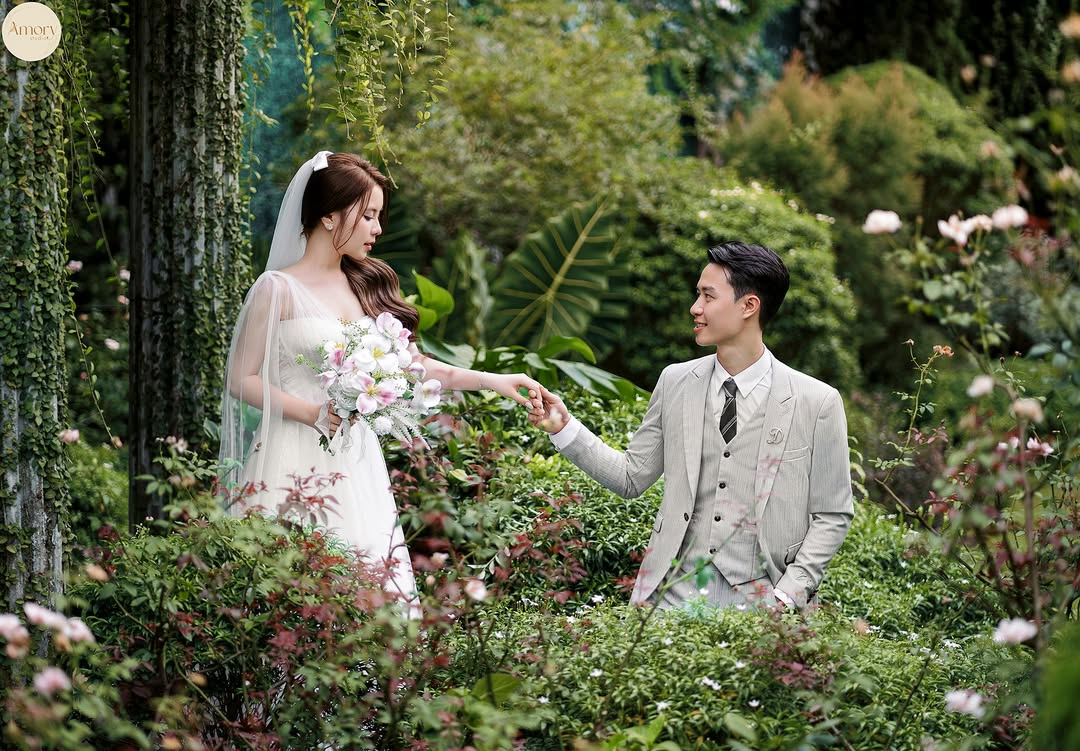
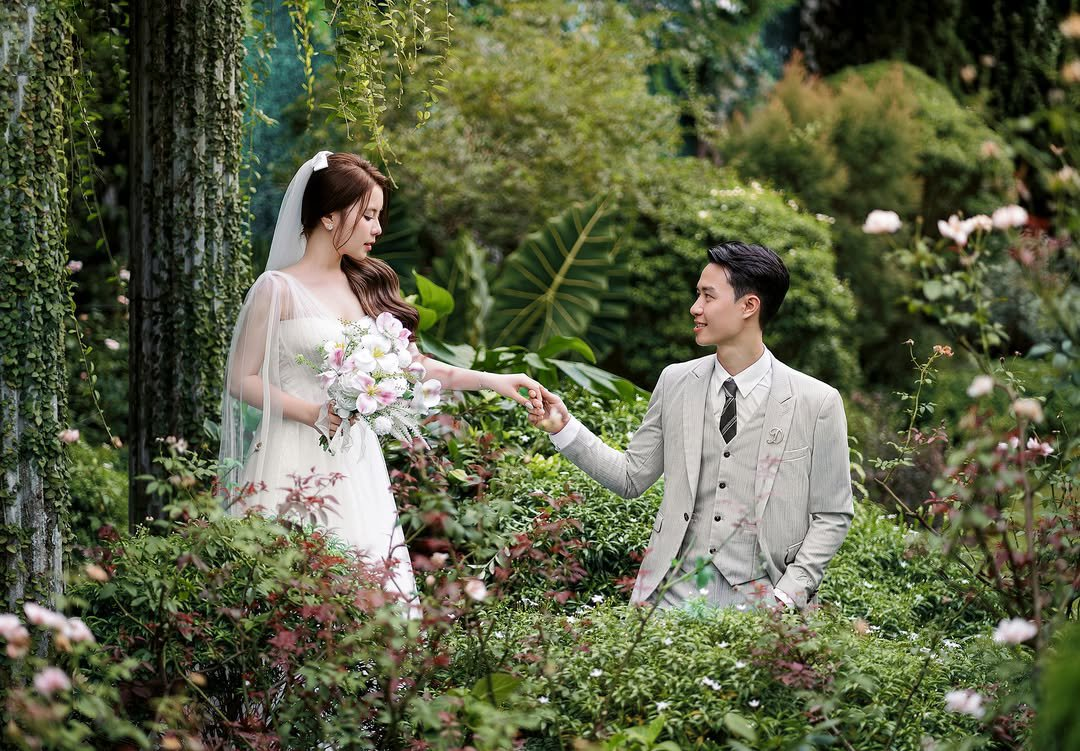
add

Changed region(s): [[0.0, 0.0, 0.0917, 0.1225]]

diff --git a/app/template/7/7.module.scss b/app/template/7/7.module.scss
@@ -633,7 +633,7 @@
 
             .title {
                 max-width: 50rem;
-                margin:  3rem auto 0 auto;
+                margin: 3rem auto 0 auto;
                 width: 80%;
 
                 img {
@@ -675,6 +675,52 @@
                 }
             }
 
+        }
+
+        .footer {
+            margin: auto;
+            max-width: 80rem;
+            width: 100%;
+
+
+            .column_text {
+                text-align: center;
+                max-width: 80rem;
+                width: 95%;
+                margin: auto;
+
+                h3 {
+                    font-size: 5.5rem;
+                    margin: 1rem 0;
+                    font-family: 'Allura', cursive;
+                    font-weight: 400;
+                }
+
+                .subtext {
+                    font-size: 2.8rem;
+                    width: 25rem;
+                    line-height: 1.5;
+                    font-family: 'Allura', cursive;
+
+                  
+
+                    @media (max-width: 768px) {
+                        font-size: 2.8rem;
+                    }
+
+                    @media (max-width: 480px) {
+                        font-size: 1.8rem;
+                    }
+                }
+            }
+
+
+            img {
+                display: block;
+                width: 100%;
+                height: 100%;
+                object-fit: cover;
+            }
         }
     }
 

diff --git a/app/template/7/7.module.css b/app/template/7/7.module.css
@@ -609,6 +609,46 @@
 .template7 .wrapper .album_wedding .bento_grid .boxWide {
   grid-column: span 2;
 }
+.template7 .wrapper .footer {
+  margin: auto;
+  max-width: 80rem;
+  width: 100%;
+}
+.template7 .wrapper .footer .column_text {
+  text-align: center;
+  max-width: 80rem;
+  width: 95%;
+  margin: auto;
+}
+.template7 .wrapper .footer .column_text h3 {
+  font-size: 5.5rem;
+  margin: 1rem 0;
+  font-family: "Allura", cursive;
+  font-weight: 400;
+}
+.template7 .wrapper .footer .column_text .subtext {
+  font-size: 2.8rem;
+  width: 25rem;
+  line-height: 1.5;
+  font-family: "Allura", cursive;
+}
+@media (max-width: 768px) {
+  .template7 .wrapper .footer .column_text .subtext {
+    font-size: 2.8rem;
+  }
+}
+@media (max-width: 480px) {
+  .template7 .wrapper .footer .column_text .subtext {
+    font-size: 1.8rem;
+  }
+}
+.template7 .wrapper .footer img {
+  display: block;
+  width: 100%;
+  height: 100%;
+  -o-object-fit: cover;
+     object-fit: cover;
+}
 
 @media (max-width: 1023px) {
   .template6 .wrapper .header .mainImage {

diff --git a/app/template/7/page.tsx b/app/template/7/page.tsx
@@ -229,6 +229,21 @@ function Template7() {
                         </div>
                     </div>
                 </div>
+
+                <div className={styles.footer}>
+                    <div className={styles.column_text}>
+                        <h3 >
+                            Thank You
+                        </h3>
+                        <span className={styles.subtext}>
+                            Cảm ơn Quý Khách vì đã trở thành một phần quan trọng
+                            <br />
+                            trong ngày đặc biệt của chúng tôi.
+                        </span>
+                    </div>
+
+                    <img src="/images/m7/ft_m7.png" alt="" />
+                </div>
             </div>
         </div>
     );
